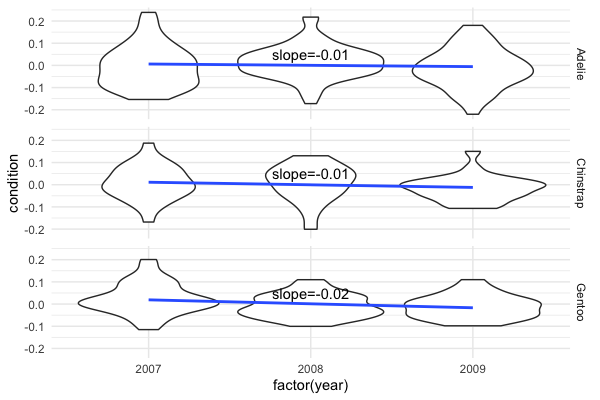
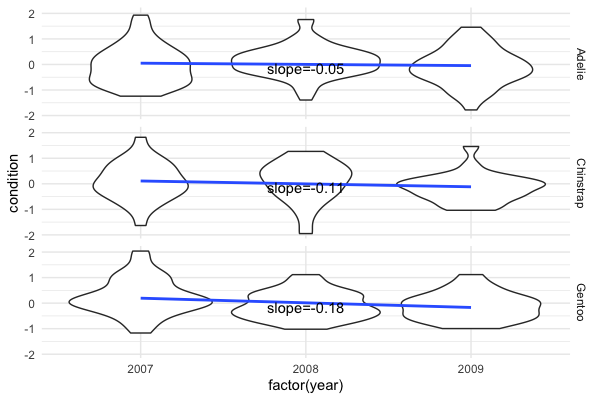
Fixes #2

diff --git a/MOD102.md b/MOD102.md
@@ -287,28 +287,31 @@ Fill out the parameters and body of `body_condition()` and `condition_trend()` i
 
 ```r
 # body_condition() quantifies the body condition of a penguin as its residual
-# mass relative to its structural size (bill length, bill depth, and flipper 
-# length). Use lm() to fit a regression and resid() to get the residuals. 
-# Normalize by mean body mass.
-body_condition <- function(???) {
-  ???
+# (normalized) mass relative to its structural size (bill length, bill depth, 
+# and flipper length). Use lm() to fit a regression and resid() to get the 
+# residuals. 
+body_condition <- function(???, ???, ???, ???) {
+  mass_normalized <- (??? - mean(???)) / sd(???)
+  mod <- lm(??? ~ ??? + ??? + ???)
+  resid(mod)
 }
 
 penguins_condition <- penguins %>% 
   drop_na() %>% 
   group_by(species) %>% 
-  mutate(condition = body_condition(???)) %>% 
+  mutate(condition = body_condition(???, ???, ???, ???)) %>% 
   ungroup()
 
 # condition_trend() calculates the slope of body condition over time. Use lm() 
 # to fit a regression and coef() to get the slope.
-condition_trend <- function(???) {
-  ???
+condition_trend <- function(???, ???) {
+  mod <- lm(??? ~ ???)
+  coef(mod)[???]
 }
 
 penguins_trend <- penguins_condition %>% 
   group_by(species) %>% 
-  summarize(trend = condition_trend(???)) %>% 
+  summarize(trend = condition_trend(???, ???)) %>% 
   mutate(trend_lbl = sprintf("slope=%0.2f", trend))
   
 ggplot(penguins_condition, aes(factor(year), condition)) + 
